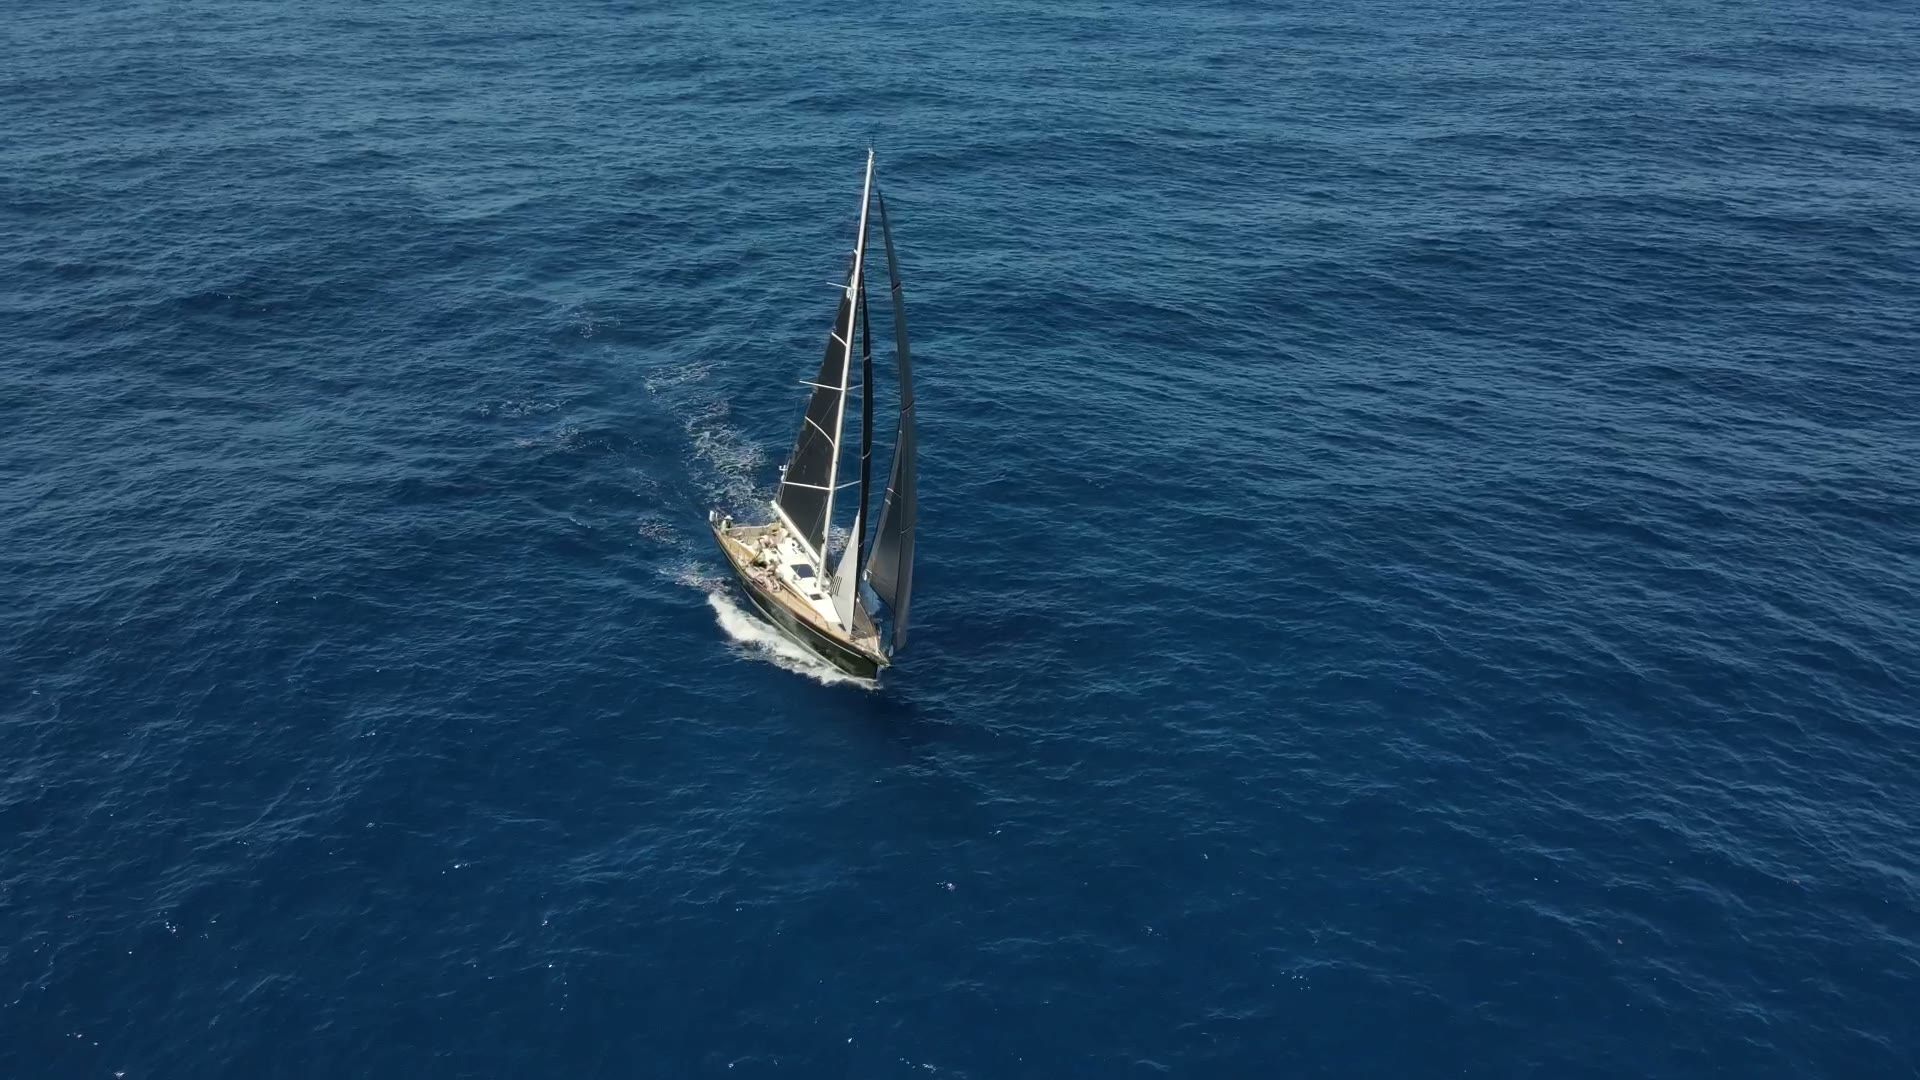
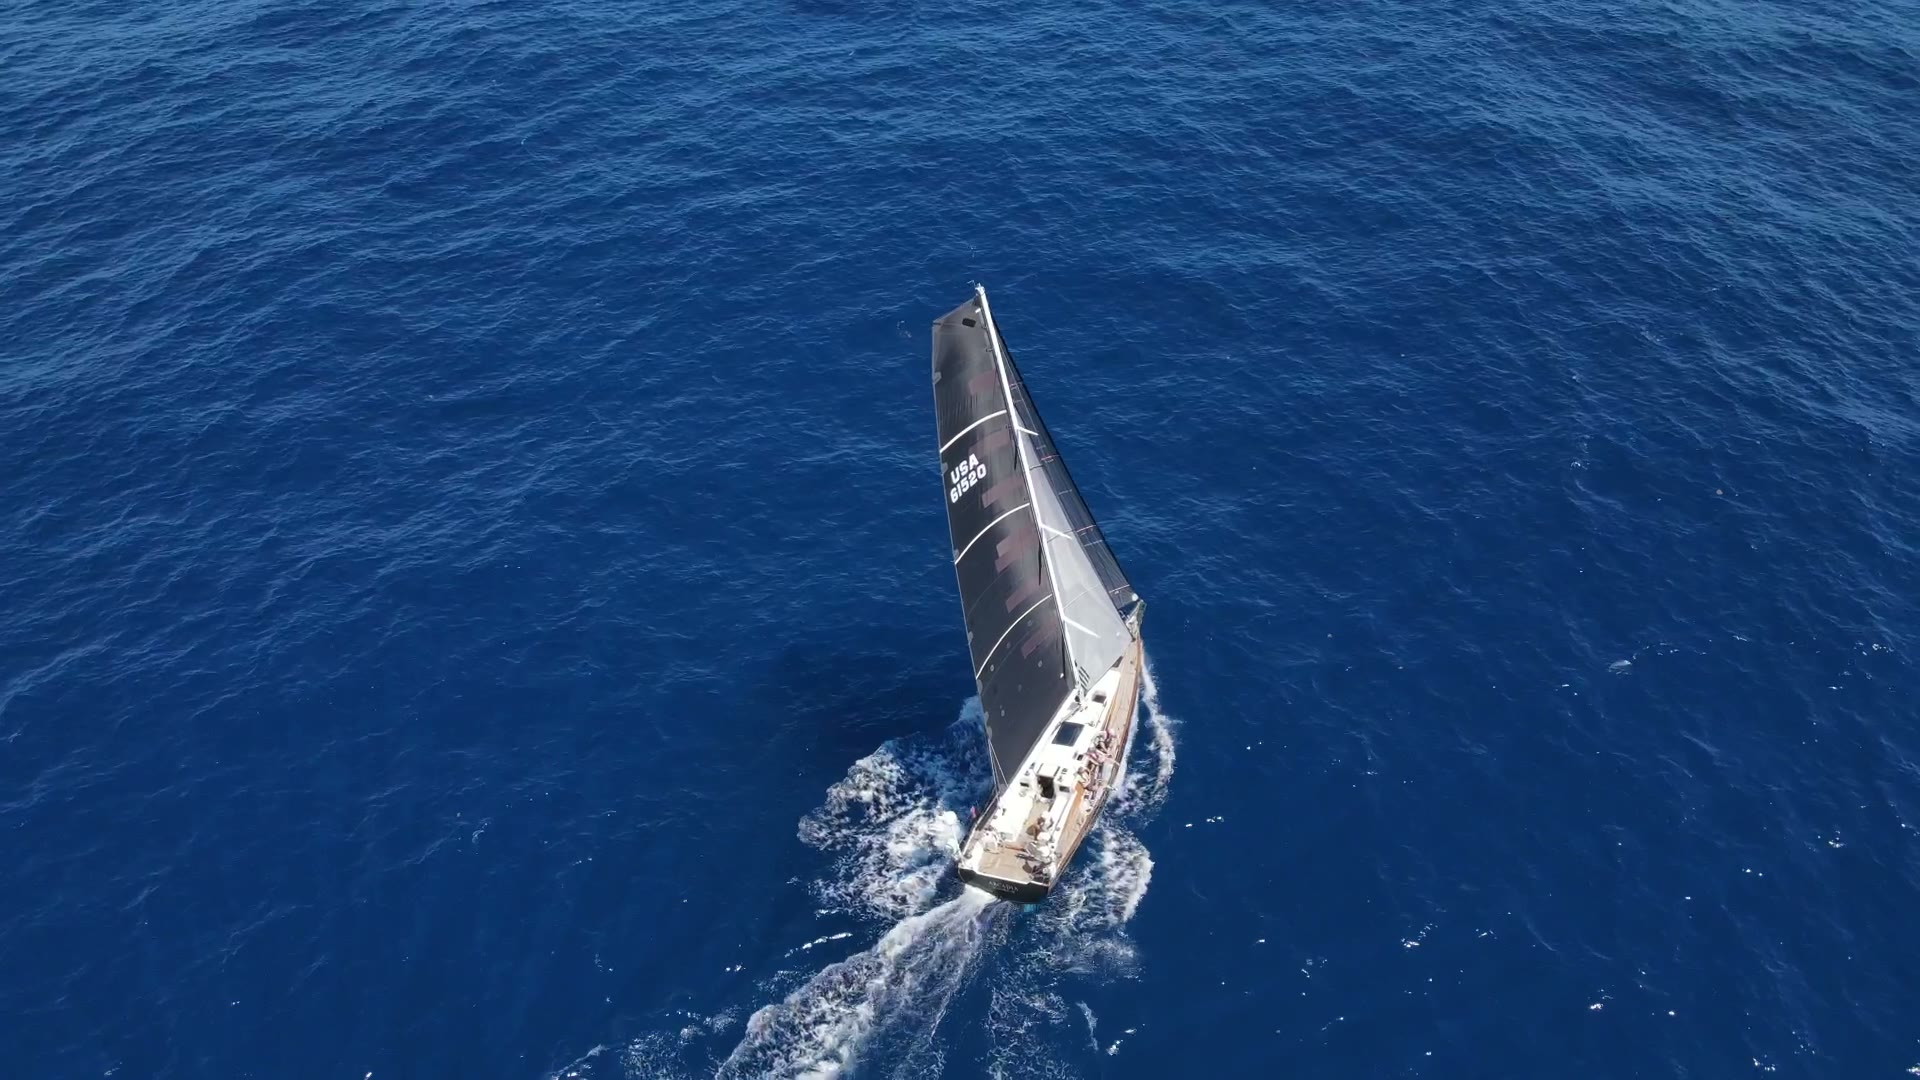
Use full-length dji_fly video.mov clip as hero footage per request

diff --git a/docs/superpowers/plans/2026-07-16-arcadia-consulting-website.md b/docs/superpowers/plans/2026-07-16-arcadia-consulting-website.md
@@ -16,7 +16,7 @@
 - Colors: primary deep pine-green `#1E4342`, near-black ink `#12201F`, warm ivory `#F6F1EA`, brass accent `#B08D57`. (spec: Visual System)
 - Type: serif display (Playfair Display) for headlines, humanist sans (Inter) for body/UI. (spec: Visual System)
 - No literal nautical clip-art; restrained, boardroom-serious layout. (spec: Visual System)
-- Hero video source: `dji_fly_20260609_102026_41_1781015198306_video (2).mov`, trimmed ~12–15s, H.264 1080p, muted, looping, `autoplay playsinline`, dark-green gradient overlay for text contrast. (spec: Video Treatment)
+- Hero video source: `dji_fly_20260609_102026_41_1781015198306_video.mov`, used in full (36.7s, per explicit request), H.264 1080p, muted, looping, `autoplay playsinline`, dark-green gradient overlay for text contrast. (spec: Video Treatment, updated post-launch)
 - About page video: `dji_fly_20260610_111206_42_1781105848928_video (1).mov`, trimmed ~6–8s, showing the "ARCADIA — St. George, ME" transom, smaller inline visual not full-bleed. (spec: Video Treatment)
 - Video hero must fall back to a static poster image on mobile viewports and when `prefers-reduced-motion` is set. (spec: Video Treatment / Technical Build)
 - Raw `.mov`/`.MP4` source files stay untouched in the project root; only compressed derivatives go in `assets/video/`. (spec: Video Treatment)

diff --git a/docs/superpowers/specs/2026-07-16-arcadia-consulting-website-design.md b/docs/superpowers/specs/2026-07-16-arcadia-consulting-website-design.md
@@ -37,7 +37,7 @@ Static multi-page site, shared header/footer markup across all pages, mobile nav
 
 ## Video Treatment
 
-- **Hero clip**: `dji_fly_20260609_102026_41_1781015198306_video (2).mov` (44s source) — reviewed frame samples show a wide, dramatic tracking angle with open sky/negative space in the upper frame, ideal for overlaid headline text. Trimmed to ~12–15s, compressed to H.264 1080p (target ~3–6MB), muted, looping, `autoplay playsinline`. Dark green gradient overlay (`#12201F` → transparent) ensures headline text contrast.
+- **Hero clip**: `dji_fly_20260609_102026_41_1781015198306_video.mov` (36.7s source, used in full per explicit request rather than trimmed) — a dramatic tracking angle with open sky/negative space, ideal for overlaid headline text. Compressed to H.264 1080p (~20MB), muted, looping, `autoplay playsinline`. Dark green gradient overlay (`#12201F` → transparent) ensures headline text contrast.
 - **Mobile / reduced-motion**: video hero replaced with a static poster frame (extracted still) on small viewports and when `prefers-reduced-motion` is set, to save data and respect accessibility preference.
 - **About page**: `dji_fly_20260610_111206_42_1781105848928_video (1).mov` (15s source) — shows the "ARCADIA — St. George, ME" transom nameplate clearly. Trimmed to ~6–8s, compressed the same way, used as a smaller inline visual rather than a full-bleed hero.
 - **Source footage**: the 8 raw `.mov`/`.MP4` files stay in the project root untouched as originals; only compressed derivatives are written into the site's `assets/video/` folder.